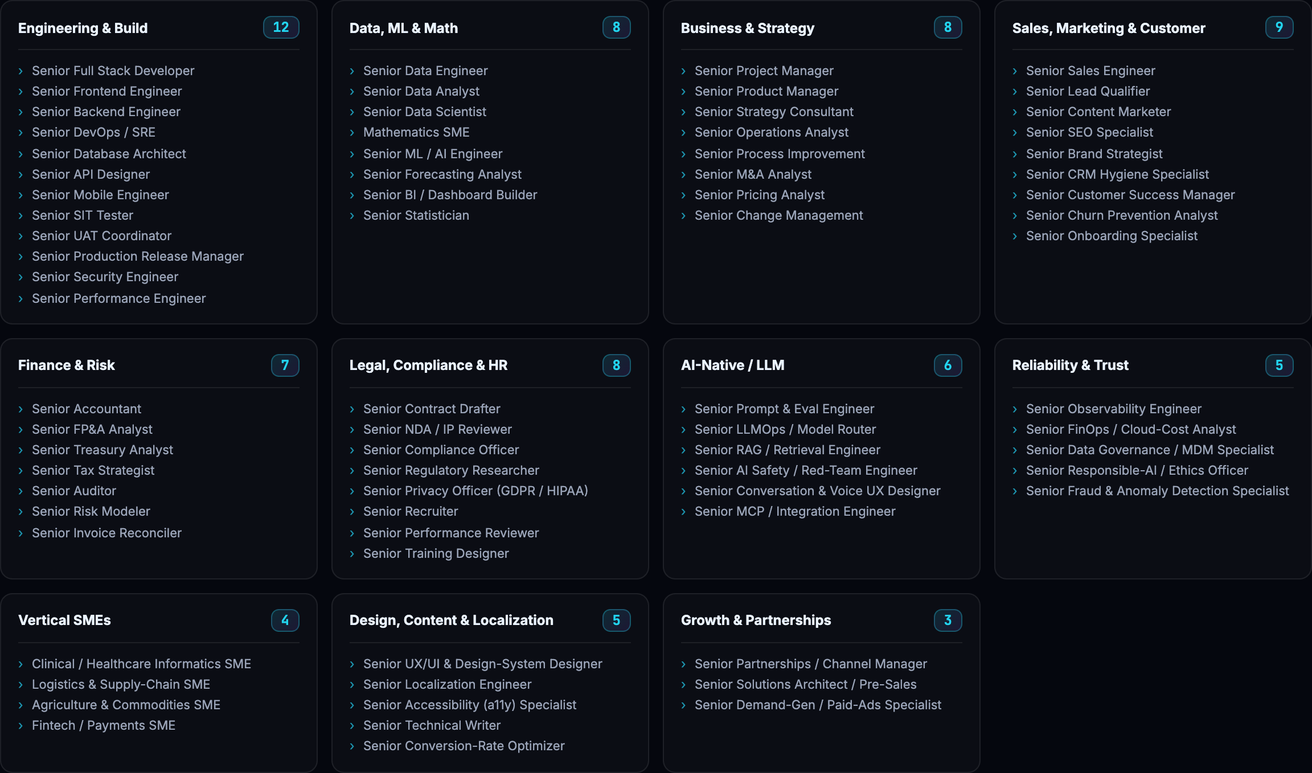
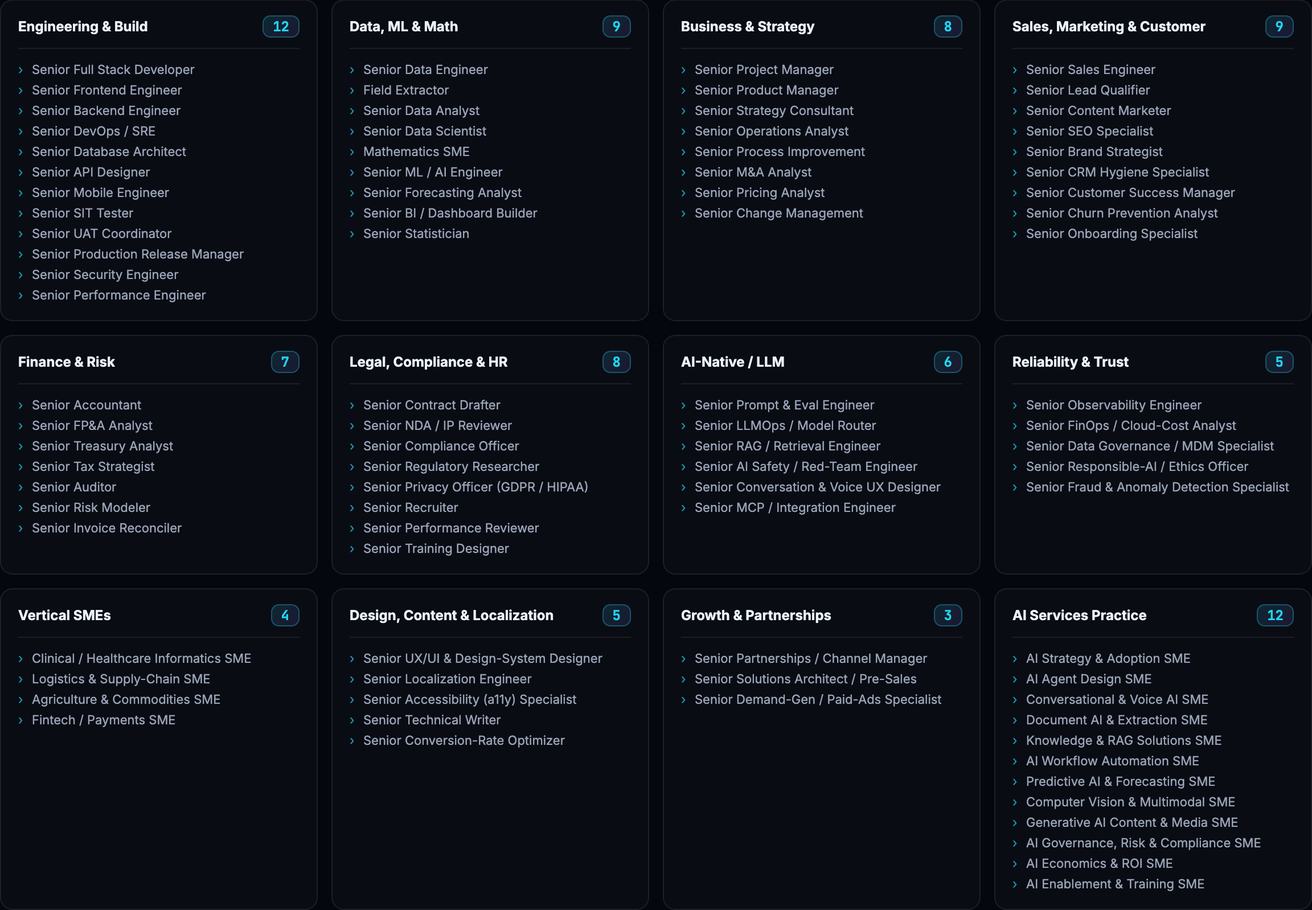
feat(neural-intelligence): digit2ai.com shows the 102-agent workforce
The landing's workforce section and animated MCP brain now show 10 core
agents (incl. AI Specialist and the AI Readiness Department), Field
Extractor, and the 12-SME AI Services Practice: 14 core + 88 specialists
= 102. Roster images re-captured from the factory page; EN/ES narration
updated (live Edge TTS, no audio to regenerate).

diff --git a/public/ringlypro-architect-factory.html b/public/ringlypro-architect-factory.html
@@ -103,7 +103,7 @@
   .pnl.mcp .t{font-size:10.5px;letter-spacing:2px;color:var(--green);opacity:.85}
   .pnl.mcp .big{font-size:18px;font-weight:800;letter-spacing:3px;color:#d6ffe8;margin:2px 0 6px}
   .pnl.mcp .st{font-size:10px;letter-spacing:1px;color:var(--green);border-top:1px solid var(--green-bd);padding-top:6px}
-  .pnl.orch .seg{display:flex;gap:4px}
+  .pnl.orch .seg{display:flex;gap:3px}
   .pnl.orch .seg i{width:6px;height:6px;border-radius:50%;background:#46618f;transition:all .3s}
   .pnl.orch .seg i.on{background:var(--cyan);box-shadow:0 0 7px var(--cyan)}
   .pnl.orch .ok{margin-left:auto;font-size:10px;letter-spacing:1px;color:var(--green);display:flex;align-items:center;gap:5px}
@@ -312,7 +312,7 @@ body.embed-stage > .viewport{display:block !important;width:100%;margin:0 !impor
 
   <div class="wrap head">
     <h1>How the Digit2AI AI Factory works</h1>
-    <p>One brain. Eight agents. Your customer's stack — wired in. This is the Champion brief: see the Neural Intelligence MCP stack run live, then try the AI Triage yourself on a real prospect problem.</p>
+    <p>One brain. Ten core agents. Your customer's stack — wired in. This is the Champion brief: see the Neural Intelligence MCP stack run live, then try the AI Triage yourself on a real prospect problem.</p>
     <span class="pill">MODEL CONTEXT PROTOCOL · DIGIT2AI NEURAL INTELLIGENCE</span>
   </div>
 
@@ -322,14 +322,16 @@ body.embed-stage > .viewport{display:block !important;width:100%;margin:0 !impor
       <div class="rings"><div class="ring r1"></div><div class="ring r2"></div><div class="ring r3"></div><div class="ring r4"></div><div class="sweep"></div></div>
 
       <svg class="links" viewBox="0 0 1200 700" preserveAspectRatio="none">
-        <path class="link" id="L0" d="M170,135 L600,340"></path>
-        <path class="link" id="L1" d="M1030,135 L600,340"></path>
-        <path class="link" id="L2" d="M95,300 L600,340"></path>
-        <path class="link" id="L3" d="M1105,300 L600,340"></path>
-        <path class="link" id="L4" d="M95,475 L600,340"></path>
-        <path class="link" id="L5" d="M1105,475 L600,340"></path>
-        <path class="link" id="L6" d="M300,605 L600,340"></path>
-        <path class="link" id="L7" d="M900,605 L600,340"></path>
+        <path class="link" id="L0" d="M260,95 L600,340"></path>
+        <path class="link" id="L1" d="M940,95 L600,340"></path>
+        <path class="link" id="L2" d="M110,225 L600,340"></path>
+        <path class="link" id="L3" d="M1090,225 L600,340"></path>
+        <path class="link" id="L4" d="M92,360 L600,340"></path>
+        <path class="link" id="L5" d="M1108,360 L600,340"></path>
+        <path class="link" id="L6" d="M110,495 L600,340"></path>
+        <path class="link" id="L7" d="M1090,495 L600,340"></path>
+        <path class="link" id="L8" d="M280,612 L600,340"></path>
+        <path class="link" id="L9" d="M920,612 L600,340"></path>
         <circle class="pkt" r="3"><animateMotion dur="2s" repeatCount="indefinite"><mpath href="#L0"/></animateMotion></circle>
         <circle class="pkt" r="3"><animateMotion dur="2s" begin="0.4s" repeatCount="indefinite"><mpath href="#L1"/></animateMotion></circle>
         <circle class="pkt" r="3"><animateMotion dur="2s" begin="0.8s" repeatCount="indefinite"><mpath href="#L2"/></animateMotion></circle>
@@ -338,32 +340,36 @@ body.embed-stage > .viewport{display:block !important;width:100%;margin:0 !impor
         <circle class="pkt" r="3"><animateMotion dur="2s" begin="1.0s" repeatCount="indefinite"><mpath href="#L5"/></animateMotion></circle>
         <circle class="pkt" r="3"><animateMotion dur="2s" begin="0.3s" repeatCount="indefinite"><mpath href="#L6"/></animateMotion></circle>
         <circle class="pkt" r="3"><animateMotion dur="2s" begin="1.4s" repeatCount="indefinite"><mpath href="#L7"/></animateMotion></circle>
+        <circle class="pkt" r="3"><animateMotion dur="2s" begin="0.9s" repeatCount="indefinite"><mpath href="#L8"/></animateMotion></circle>
+        <circle class="pkt" r="3"><animateMotion dur="2s" begin="0.5s" repeatCount="indefinite"><mpath href="#L9"/></animateMotion></circle>
       </svg>
 
-      <div class="node" id="n0" style="left:170px;top:135px"><div class="box"><div class="screen"><i></i><span class="bar"></span><i></i></div></div><div class="name">SENIOR BA</div><div class="cap">decks · plans · strategy</div></div>
-      <div class="node" id="n1" style="left:1030px;top:135px"><div class="box"><div class="screen"><i></i><span class="bar"></span><i></i></div></div><div class="name">RESEARCH</div><div class="cap">web search · competitive</div></div>
-      <div class="node" id="n2" style="left:95px;top:300px"><div class="box"><div class="screen"><i></i><span class="bar"></span><i></i></div></div><div class="name">OUTREACH</div><div class="cap">emails · WhatsApp · EN/ES</div></div>
-      <div class="node" id="n3" style="left:1105px;top:300px"><div class="box"><div class="screen"><i></i><span class="bar"></span><i></i></div></div><div class="name">ARCHITECT</div><div class="cap">build · UAT · ship</div></div>
-      <div class="node" id="n4" style="left:95px;top:475px"><div class="box"><div class="screen"><i></i><span class="bar"></span><i></i></div></div><div class="name">INBOX TRIAGE</div><div class="cap">score · flag · recommend</div></div>
-      <div class="node" id="n5" style="left:1105px;top:475px"><div class="box"><div class="screen"><i></i><span class="bar"></span><i></i></div></div><div class="name">MINUTES</div><div class="cap">summary · action items</div></div>
-      <div class="node" id="n6" style="left:300px;top:605px"><div class="box"><div class="screen"><i></i><span class="bar"></span><i></i></div></div><div class="name">VOICE AI</div><div class="cap">Rachel · Ana · Lina · 24/7</div></div>
-      <div class="node" id="n7" style="left:900px;top:605px"><div class="box"><div class="screen"><i></i><span class="bar"></span><i></i></div></div><div class="name">FINDINGS</div><div class="cap">risks · stalls · owners</div></div>
+      <div class="node" id="n0" style="left:260px;top:95px"><div class="box"><div class="screen"><i></i><span class="bar"></span><i></i></div></div><div class="name">SENIOR BA</div><div class="cap">decks · plans · strategy</div></div>
+      <div class="node" id="n1" style="left:940px;top:95px"><div class="box"><div class="screen"><i></i><span class="bar"></span><i></i></div></div><div class="name">RESEARCH</div><div class="cap">web search · competitive</div></div>
+      <div class="node" id="n2" style="left:110px;top:225px"><div class="box"><div class="screen"><i></i><span class="bar"></span><i></i></div></div><div class="name">OUTREACH</div><div class="cap">emails · WhatsApp · EN/ES</div></div>
+      <div class="node" id="n3" style="left:1090px;top:225px"><div class="box"><div class="screen"><i></i><span class="bar"></span><i></i></div></div><div class="name">ARCHITECT</div><div class="cap">build · UAT · ship</div></div>
+      <div class="node" id="n4" style="left:92px;top:360px"><div class="box"><div class="screen"><i></i><span class="bar"></span><i></i></div></div><div class="name">INBOX TRIAGE</div><div class="cap">score · flag · recommend</div></div>
+      <div class="node" id="n5" style="left:1108px;top:360px"><div class="box"><div class="screen"><i></i><span class="bar"></span><i></i></div></div><div class="name">MINUTES</div><div class="cap">summary · action items</div></div>
+      <div class="node" id="n6" style="left:110px;top:495px"><div class="box"><div class="screen"><i></i><span class="bar"></span><i></i></div></div><div class="name">VOICE AI</div><div class="cap">Rachel · Ana · Lina · 24/7</div></div>
+      <div class="node" id="n7" style="left:1090px;top:495px"><div class="box"><div class="screen"><i></i><span class="bar"></span><i></i></div></div><div class="name">FINDINGS</div><div class="cap">risks · stalls · owners</div></div>
+      <div class="node" id="n8" style="left:280px;top:612px"><div class="box"><div class="screen"><i></i><span class="bar"></span><i></i></div></div><div class="name">AI SPECIALIST</div><div class="cap">12 AI services · SMEs</div></div>
+      <div class="node" id="n9" style="left:920px;top:612px"><div class="box"><div class="screen"><i></i><span class="bar"></span><i></i></div></div><div class="name">AI READINESS</div><div class="cap">crew of 5 · one unit</div></div>
 
       <div class="console">
         <div class="pnl"><div class="row"><div class="dots"><i></i><i></i><i></i></div><div class="lines"><b></b><b></b><b></b></div></div><div class="lab">CORE · CONTEXT</div></div>
         <div class="pnl"><div class="row"><div class="dots"><i></i><i></i><i></i></div><div class="lines"><b></b><b></b><b></b></div></div><div class="lab">CORE · ROUTING</div></div>
-        <div class="pnl mcp"><div class="t">MCP</div><div class="big">BRAIN</div><div class="st">8 agents · linked</div></div>
-        <div class="pnl orch"><div class="row"><div class="seg" id="seg"><i></i><i></i><i></i><i></i><i></i><i></i><i></i><i></i></div><div class="ok"><b></b>LIVE</div></div><div class="lab2" id="orchLab">ORCHESTRATOR</div></div>
+        <div class="pnl mcp"><div class="t">MCP</div><div class="big">BRAIN</div><div class="st">10 core · linked</div></div>
+        <div class="pnl orch"><div class="row"><div class="seg" id="seg"><i></i><i></i><i></i><i></i><i></i><i></i><i></i><i></i><i></i><i></i></div><div class="ok"><b></b>LIVE</div></div><div class="lab2" id="orchLab">ORCHESTRATOR</div></div>
       </div>
 
       <div class="label-c">&#9660; DIGIT2AI MCP BRAIN &#9650;</div>
-      <div class="sealed"><b></b>83-AGENT WORKFORCE · WIRED VIA OPEN MCP</div>
+      <div class="sealed"><b></b>102-AGENT WORKFORCE · WIRED VIA OPEN MCP</div>
     </div>
   </div>
 
   <!-- mobile stacked version of the diagram -->
   <div class="wrap diagram-mobile">
-    <div class="dm-brain"><div class="t">DIGIT2AI MCP</div><div class="big">BRAIN</div><div class="st">8 agents · linked · LIVE</div></div>
+    <div class="dm-brain"><div class="t">DIGIT2AI MCP</div><div class="big">BRAIN</div><div class="st">10 core · linked · LIVE</div></div>
     <div class="dm-agents">
       <div class="dm-a"><div class="nm">SENIOR BA</div><div class="cp">decks · plans · strategy</div></div>
       <div class="dm-a"><div class="nm">RESEARCH</div><div class="cp">web search · competitive</div></div>
@@ -373,10 +379,12 @@ body.embed-stage > .viewport{display:block !important;width:100%;margin:0 !impor
       <div class="dm-a"><div class="nm">MINUTES</div><div class="cp">summary · action items</div></div>
       <div class="dm-a"><div class="nm">VOICE AI</div><div class="cp">Rachel · Ana · Lina · 24/7</div></div>
       <div class="dm-a"><div class="nm">FINDINGS</div><div class="cp">risks · stalls · owners</div></div>
+      <div class="dm-a"><div class="nm">AI SPECIALIST</div><div class="cp">12 AI services · SMEs</div></div>
+      <div class="dm-a"><div class="nm">AI READINESS</div><div class="cp">crew of 5 · one unit</div></div>
     </div>
   </div>
 
-  <p class="wrap muted" style="margin-top:12px">MCP CORE — context, routing, orchestrator · 8 specialized agents, each wired to the customer's actual systems via the open Model Context Protocol. Behind them: 75 senior specialists the brain spins up on demand.</p>
+  <p class="wrap muted" style="margin-top:12px">MCP CORE — context, routing, orchestrator · 10 core agents (including the AI Specialist and the 5-agent AI Readiness Department), each wired to the customer's actual systems via the open Model Context Protocol. Behind them: 76 senior specialists and 12 AI Services SMEs the brain spins up on demand.</p>
 
   <!-- RACHEL VOICE ORB (zero-key Edge neural TTS via /api/tts/edge) -->
   <div class="wrap">
@@ -466,7 +474,7 @@ body.embed-stage > .viewport{display:block !important;width:100%;margin:0 !impor
   <div class="wrap">
     <h2 class="sec"><span class="n">02</span> WHAT MCP NEURAL AI ACTUALLY MEANS</h2>
     <p class="lead">It's a coordinated team of AI agents — <b>not one chatbot.</b></p>
-    <p class="muted" style="margin-bottom:14px">"MCP" = Model Context Protocol — how our specialists share context and hand work between each other. Each agent's output is the next agent's input, so the customer gets usable work product, not a vague summary. These eight are the always-on core; 75 more specialists spin up on demand.</p>
+    <p class="muted" style="margin-bottom:14px">"MCP" = Model Context Protocol — how our specialists share context and hand work between each other. Each agent's output is the next agent's input, so the customer gets usable work product, not a vague summary. These ten are the always-on core; 76 senior specialists and 12 AI Services SMEs spin up on demand.</p>
     <div class="grid4">
       <div class="card"><div class="k">01</div><div class="h">Senior Business Analyst</div><p>Drafts decks, business plans, market research, strategy memos.</p></div>
       <div class="card"><div class="k">02</div><div class="h">Research Brief</div><p>Web search + synthesis. Competitive scans, regulatory checks, partner shortlists.</p></div>
@@ -476,21 +484,23 @@ body.embed-stage > .viewport{display:block !important;width:100%;margin:0 !impor
       <div class="card"><div class="k">06</div><div class="h">Meeting Minutes</div><p>Turns raw call notes into summary + action items auto-assigned to owners.</p></div>
       <div class="card"><div class="k">07</div><div class="h">Voice AI Agents</div><p>Rachel (EN), Ana &amp; Lina (ES) answer phones 24/7 — qualify, book, log to CRM.</p></div>
       <div class="card"><div class="k">08</div><div class="h">Neural Findings</div><p>Watches every project for stalls, missing owners, overdue milestones — pings before things slip.</p></div>
+      <div class="card"><div class="k">09</div><div class="h">AI Specialist</div><p>Owns every AI service request end to end — diagnoses the need and leads 12 AI Services SMEs.</p></div>
+      <div class="card"><div class="k">10</div><div class="h">AI Readiness Department</div><p>A crew of 5 that takes a CEO from fear to confidence — scorecard, roadmap, safe next step.</p></div>
     </div>
-    <p class="muted" style="margin-top:12px">8 core + 75 specialists = <b style="color:var(--cyan)">83-agent workforce</b>, routed by one MCP brain, wired to the customer's live systems. New specialists added every quarter — every customer gets them automatically.</p>
+    <p class="muted" style="margin-top:12px">14 core agents (10 seats; the AI Readiness Department counts five) + 88 specialists and AI SMEs = <b style="color:var(--cyan)">102-agent workforce</b>, routed by one MCP brain, wired to the customer's live systems. New specialists added every quarter — every customer gets them automatically.</p>
   </div>
 
   <!-- ===== the full army ===== -->
   <div class="wrap">
-    <h2 class="sec"><span class="n">02 ·</span> THE FULL ARMY — 70+ SPECIALIST AGENTS ON CALL</h2>
-    <p class="muted" style="margin-bottom:16px">The 8 core agents above are the always-on stack. Behind them sits a roster of specialists the MCP brain spins up the moment a project needs them. No new contracts. No "let me find a partner who does that." Every customer gets the whole army from day one.</p>
+    <h2 class="sec"><span class="n">02 ·</span> THE FULL ARMY — 88 SPECIALISTS AND AI SMEs ON CALL</h2>
+    <p class="muted" style="margin-bottom:16px">The 10 core agents above are the always-on stack. Behind them sits a roster of specialists the MCP brain spins up the moment a project needs them. No new contracts. No "let me find a partner who does that." Every customer gets the whole army from day one.</p>
     <div class="army">
 
       <div class="acat"><div class="ct"><span class="nm">Engineering &amp; Build</span><span class="cn">12</span></div>
         <ul><li>Senior Full Stack Developer</li><li>Senior Frontend Engineer</li><li>Senior Backend Engineer</li><li>Senior DevOps / SRE</li><li>Senior Database Architect</li><li>Senior API Designer</li><li>Senior Mobile Engineer</li><li>Senior SIT Tester</li><li>Senior UAT Coordinator</li><li>Senior Production Release Manager</li><li>Senior Security Engineer</li><li>Senior Performance Engineer</li></ul></div>
 
-      <div class="acat"><div class="ct"><span class="nm">Data, ML &amp; Math</span><span class="cn">8</span></div>
-        <ul><li>Senior Data Engineer</li><li>Senior Data Analyst</li><li>Senior Data Scientist</li><li>Mathematics SME</li><li>Senior ML / AI Engineer</li><li>Senior Forecasting Analyst</li><li>Senior BI / Dashboard Builder</li><li>Senior Statistician</li></ul></div>
+      <div class="acat"><div class="ct"><span class="nm">Data, ML &amp; Math</span><span class="cn">9</span></div>
+        <ul><li>Senior Data Engineer</li><li>Field Extractor</li><li>Senior Data Analyst</li><li>Senior Data Scientist</li><li>Mathematics SME</li><li>Senior ML / AI Engineer</li><li>Senior Forecasting Analyst</li><li>Senior BI / Dashboard Builder</li><li>Senior Statistician</li></ul></div>
 
       <div class="acat"><div class="ct"><span class="nm">Business &amp; Strategy</span><span class="cn">8</span></div>
         <ul><li>Senior Project Manager</li><li>Senior Product Manager</li><li>Senior Strategy Consultant</li><li>Senior Operations Analyst</li><li>Senior Process Improvement</li><li>Senior M&amp;A Analyst</li><li>Senior Pricing Analyst</li><li>Senior Change Management</li></ul></div>
@@ -519,8 +529,11 @@ body.embed-stage > .viewport{display:block !important;width:100%;margin:0 !impor
       <div class="acat"><div class="ct"><span class="nm">Growth &amp; Partnerships</span><span class="cn">3</span></div>
         <ul><li>Senior Partnerships / Channel Manager</li><li>Senior Solutions Architect / Pre-Sales</li><li>Senior Demand-Gen / Paid-Ads Specialist</li></ul></div>
 
+      <div class="acat aisvc"><div class="ct"><span class="nm">AI Services Practice</span><span class="cn">12</span></div>
+        <ul><li>AI Strategy &amp; Adoption SME</li><li>AI Agent Design SME</li><li>Conversational &amp; Voice AI SME</li><li>Document AI &amp; Extraction SME</li><li>Knowledge &amp; RAG Solutions SME</li><li>AI Workflow Automation SME</li><li>Predictive AI &amp; Forecasting SME</li><li>Computer Vision &amp; Multimodal SME</li><li>Generative AI Content &amp; Media SME</li><li>AI Governance, Risk &amp; Compliance SME</li><li>AI Economics &amp; ROI SME</li><li>AI Enablement &amp; Training SME</li></ul></div>
+
     </div>
-    <p class="muted" style="margin-top:14px">8 core + 75 specialists = <b style="color:var(--cyan)">83-agent workforce</b> · routed by one MCP brain · wired to the customer's live systems via the open Model Context Protocol · new specialists added every quarter, every customer gets them automatically.</p>
+    <p class="muted" style="margin-top:14px">14 core agents + 76 specialists + 12 AI Services SMEs = <b style="color:var(--cyan)">102-agent workforce</b> · routed by one MCP brain · wired to the customer's live systems via the open Model Context Protocol · new specialists added every quarter, every customer gets them automatically.</p>
   </div>
 
   <!-- ===== the 4 deliverables ===== -->
@@ -579,7 +592,7 @@ body.embed-stage > .viewport{display:block !important;width:100%;margin:0 !impor
     </div>
   </div>
 
-  <div class="foot">Partnership-only brief. Digit2AI · Neural Intelligence · digit2ai.com — one brain, eight always-on agents, 75 specialists on call, wired to the customer's live systems through the open Model Context Protocol. The AI never auto-commits Digit2AI to a project; every triage is a first read a human reviews within 48 hours.</div>
+  <div class="foot">Partnership-only brief. Digit2AI · Neural Intelligence · digit2ai.com — one brain, ten always-on core agents, 88 specialists and AI SMEs on call, wired to the customer's live systems through the open Model Context Protocol. The AI never auto-commits Digit2AI to a project; every triage is a first read a human reviews within 48 hours.</div>
 
 <script>
   // auto-scale the diagram
@@ -599,12 +612,13 @@ body.embed-stage > .viewport{display:block !important;width:100%;margin:0 !impor
     {id:'n0',link:'L0',name:'SENIOR BA'},{id:'n1',link:'L1',name:'RESEARCH'},
     {id:'n2',link:'L2',name:'OUTREACH'},{id:'n3',link:'L3',name:'ARCHITECT'},
     {id:'n4',link:'L4',name:'INBOX TRIAGE'},{id:'n5',link:'L5',name:'MINUTES'},
-    {id:'n6',link:'L6',name:'VOICE AI'},{id:'n7',link:'L7',name:'FINDINGS'}];
+    {id:'n6',link:'L6',name:'VOICE AI'},{id:'n7',link:'L7',name:'FINDINGS'},
+    {id:'n8',link:'L8',name:'AI SPECIALIST'},{id:'n9',link:'L9',name:'AI READINESS'}];
   var seg=document.getElementById('seg').children,orchLab=document.getElementById('orchLab'),ai=-1;
   function tick(){agents.forEach(function(a){document.getElementById(a.id).classList.remove('active');document.getElementById(a.link).classList.remove('hot');});
     ai=(ai+1)%agents.length;if(ai===0)for(var k=0;k<seg.length;k++)seg[k].classList.remove('on');
     var a=agents[ai];document.getElementById(a.id).classList.add('active');document.getElementById(a.link).classList.add('hot');
-    seg[ai].classList.add('on');orchLab.textContent='ORCHESTRATOR · '+a.name+'  ['+(ai+1)+'/8]';}
+    seg[ai].classList.add('on');orchLab.textContent='ORCHESTRATOR · '+a.name+'  ['+(ai+1)+'/'+agents.length+']';}
   tick();setInterval(tick,1700);
 
   // ===== live triage (real endpoint) =====
@@ -668,8 +682,8 @@ body.embed-stage > .viewport{display:block !important;width:100%;margin:0 !impor
     "Hi, I'm Rachel, the AI voice of Digit2AI. Let me walk you through how our AI Factory works — from a prospect's problem to live software, in days, not months.",
     "Right here you can try the live AI Triage. Paste a prospect's problem in their own words, and our Neural Intelligence stack reads it, scores the fit, sketches the technical solution, and shows you exactly what we would build — before any human is involved.",
     "Here is why this is the game-changer. Most AI is a thermometer — it shows you a number and walks away. Digit2AI is the doctor. It finds the money leak, diagnoses the root cause with evidence, and ships the fix. Detect, diagnose, treat.",
-    "Under the hood it is not one chatbot. It is a coordinated team of agents sharing context through the open Model Context Protocol. Eight specialists are always on — a business analyst, research, outreach, the architect that builds, inbox triage, meeting minutes, the voice agents, and neural findings.",
-    "Behind those eight sits a roster of seventy-five senior specialists the brain spins up the moment a project needs them — engineering, data, finance, legal, design, and vertical experts. Eight core plus seventy-five equals an eighty-three agent workforce, and every customer gets the whole army from day one.",
+    "Under the hood it is not one chatbot. It is a coordinated team of agents sharing context through the open Model Context Protocol. Ten core agents are always on — a business analyst, research, outreach, the architect that builds, inbox triage, meeting minutes, the voice agents, neural findings, the AI specialist, and the AI readiness department.",
+    "Behind that core sits a roster of seventy-six senior specialists and twelve AI services experts the brain spins up the moment a project needs them — engineering, data, finance, legal, design, vertical experts, and AI services. Altogether, a one hundred and two agent workforce, and every customer gets the whole army from day one.",
     "There are four things we deliver. Custom software built and shipped to your own domain. A senior business analyst on tap for decks and plans. Twenty-two ready-built vertical platforms. And voice agents that answer your phones around the clock.",
     "Becoming a customer is simple. You submit the problem, the AI triages it in minutes, a real person reviews within forty-eight hours, we auto-schedule a kickoff, and then we build, test, and ship live software on your domain.",
     "Twenty-one live platforms, twenty-two verticals, ninety-nine point nine percent uptime, across the Americas in English and Spanish. When you are ready, send your prospect to digit2ai dot com — three minutes of their time, and a real recommendation within forty-eight hours."

diff --git a/public/neural-intelligence.html b/public/neural-intelligence.html
@@ -633,21 +633,21 @@ html.lang-es .i18.es{display:inline}
     </div>
   </section>
 
-  <!-- ============ SLIDE 3 — THE 8 CORE AGENTS ============ -->
+  <!-- ============ SLIDE 3 — THE 10 CORE AGENTS ============ -->
   <section class="slide" id="s-core-agents" aria-label="Slide 3 of 14">
     <div class="slide__inner" style="max-width:1280px;text-align:center">
       <span class="kicker reveal"><span class="i18 en">What MCP Neural AI actually means</span><span class="i18 es">Qu&eacute; significa realmente MCP Neural AI</span></span>
       <h2 class="title reveal" style="margin-bottom:18px"><span class="i18 en">A coordinated team of AI agents &mdash; not one chatbot.</span><span class="i18 es">Un equipo coordinado de agentes de IA &mdash; no un solo chatbot.</span></h2>
-      <img src="/img/factory-core-agents.png" alt="The 8 always-on core agents: Senior Business Analyst, Research Brief, Outreach Drafter, Architect and Builder, Inbox Triage, Meeting Minutes, Voice AI Agents, Neural Findings" loading="lazy" class="reveal" style="width:100%;max-width:1180px;border:1px solid var(--line);border-radius:16px;box-shadow:0 26px 80px rgba(0,0,0,.5);display:block;margin:0 auto" />
+      <img src="/img/factory-core-agents.png" alt="The 10 always-on core agents: Senior Business Analyst, Research Brief, Outreach Drafter, Architect and Builder, Inbox Triage, Meeting Minutes, Voice AI Agents, Neural Findings, AI Specialist, AI Readiness Department" loading="lazy" class="reveal" style="width:100%;max-width:1180px;border:1px solid var(--line);border-radius:16px;box-shadow:0 26px 80px rgba(0,0,0,.5);display:block;margin:0 auto" />
     </div>
   </section>
 
   <!-- ============ SLIDE 4 — THE FULL ARMY ============ -->
   <section class="slide" id="s-full-army" aria-label="Slide 4 of 14">
     <div class="slide__inner" style="max-width:1340px;text-align:center">
-      <span class="kicker reveal"><span class="i18 en">The full army &mdash; 70+ specialist agents on call</span><span class="i18 es">El ej&eacute;rcito completo &mdash; m&aacute;s de 70 agentes especialistas disponibles</span></span>
-      <h2 class="title reveal" style="margin-bottom:18px"><span class="i18 en">8 core + 75 specialists = an 83-agent workforce.</span><span class="i18 es">8 centrales + 75 especialistas = una fuerza de 83 agentes.</span></h2>
-      <img src="/img/factory-full-army.png" alt="Full specialist roster across Engineering and Build, Data ML and Math, Business and Strategy, Sales Marketing and Customer, Finance and Risk, Legal Compliance and HR, AI-Native LLM, Reliability and Trust, Vertical SMEs, Design Content and Localization, and Growth and Partnerships" loading="lazy" class="reveal" style="width:100%;max-width:1280px;border:1px solid var(--line);border-radius:16px;box-shadow:0 26px 80px rgba(0,0,0,.5);display:block;margin:0 auto" />
+      <span class="kicker reveal"><span class="i18 en">The full army &mdash; 88 specialists and AI SMEs on call</span><span class="i18 es">El ej&eacute;rcito completo &mdash; 88 especialistas y expertos en IA disponibles</span></span>
+      <h2 class="title reveal" style="margin-bottom:18px"><span class="i18 en">14 core + 88 specialists = a 102-agent workforce.</span><span class="i18 es">14 centrales + 88 especialistas = una fuerza de 102 agentes.</span></h2>
+      <img src="/img/factory-full-army.png" alt="Full specialist roster across Engineering and Build, Data ML and Math, Business and Strategy, Sales Marketing and Customer, Finance and Risk, Legal Compliance and HR, AI-Native LLM, Reliability and Trust, Vertical SMEs, Design Content and Localization, and Growth and Partnerships, and the 12-SME AI Services Practice" loading="lazy" class="reveal" style="width:100%;max-width:1280px;border:1px solid var(--line);border-radius:16px;box-shadow:0 26px 80px rgba(0,0,0,.5);display:block;margin:0 auto" />
     </div>
   </section>
 
@@ -1114,8 +1114,8 @@ html.lang-es .i18.es{display:inline}
       "Hi, I'm the DIGIT2AI voice of artificial intelligence. In the next few minutes I'll walk you through Neural Intelligence, our AI-native operating model. Let me take you slide by slide.",
       "DIGIT2AI Neural Intelligence is the AI-native operating model: one hundred fifty specialized AI agents, one backbone, and thirty to fifty percent lower operating costs, in weeks, not years.",
       "Here's the backbone the whole model runs on. One MCP brain at the center, wired to every specialized agent, and the open Model Context Protocol carries shared context between them and orchestrates multi-step work in real time. Context goes in; coordinated action comes out. This is what turns a hundred and fifty separate agents into one operating system.",
-      "Under the hood it is not one chatbot. It is a coordinated team of agents sharing context through the open Model Context Protocol. Eight specialists are always on: a business analyst, research, outreach, the architect that builds, inbox triage, meeting minutes, the voice agents, and neural findings. Each agent's output is the next agent's input, so you get usable work product, not a vague summary.",
-      "Behind those eight sits a roster of seventy-five senior specialists the brain spins up the moment a project needs them, across engineering, data, finance, legal, design, and vertical expertise. Eight core plus seventy-five equals an eighty-three agent workforce, and every customer gets the whole army from day one, with new specialists added every quarter.",
+      "Under the hood it is not one chatbot. It is a coordinated team of agents sharing context through the open Model Context Protocol. Ten core agents are always on: a business analyst, research, outreach, the architect that builds, inbox triage, meeting minutes, the voice agents, neural findings, the AI specialist, and the AI readiness department, a crew of five. Each agent's output is the next agent's input, so you get usable work product, not a vague summary.",
+      "Behind that core sits a roster of seventy-six senior specialists and twelve AI services experts the brain spins up the moment a project needs them, across engineering, data, finance, legal, design, vertical expertise, and AI services. Fourteen core agents plus eighty-eight specialists equals a one hundred and two agent workforce, and every customer gets the whole army from day one, with new specialists added every quarter.",
       "Here's the paradox of twenty twenty-six. Everyone adopted AI, but almost no one is winning with it. Eighty-eight percent of organizations now use AI in at least one function, yet only about seven percent have scaled it across the enterprise, and only about six percent capture real company-wide value. Eighty to ninety-five percent of enterprise AI projects fail to deliver the return they promised. The problem is not the AI; it's what the AI is plugged into.",
       "Roughly nine out of ten enterprises still run on a pre-AI operating model. They bolt AI tools onto siloed departments, legacy systems that don't talk to each other, headcount-based cost structures, and decisions that wait for meetings. AI on top of a traditional operating model produces expensive pilots, not transformation. Gartner expects sixty percent of AI projects without AI-ready architecture to be abandoned through twenty twenty-six.",
       "The window is twenty twenty-six to twenty twenty-seven. AI budgets are rising at eighty-six percent of enterprises, agentic AI is moving from experiment to production across every industry, and organizations that redesign work around AI are twice as likely to exceed their revenue goals. The gap between AI-native operators and traditional operators widens every quarter, and it will not close later at the same price.",
@@ -1131,8 +1131,8 @@ html.lang-es .i18.es{display:inline}
       "Hola, soy la voz de inteligencia artificial de DIGIT2AI. En los próximos minutos te voy a explicar Neural Intelligence, nuestro modelo operativo nativo de inteligencia artificial. Déjame llevarte lámina por lámina.",
       "DIGIT2AI Neural Intelligence es el modelo operativo nativo de inteligencia artificial: ciento cincuenta agentes de inteligencia artificial especializados, una sola columna vertebral, y entre treinta y cincuenta por ciento menos de costos operativos, en semanas, no en años.",
       "Esta es la columna vertebral sobre la que corre todo el modelo. Un cerebro MCP en el centro, conectado a cada agente especializado, y el Model Context Protocol abierto lleva el contexto compartido entre ellos y orquesta el trabajo de varios pasos en tiempo real. Entra contexto; sale acción coordinada. Esto es lo que convierte a ciento cincuenta agentes separados en un solo sistema operativo.",
-      "Por dentro no es un solo chatbot. Es un equipo coordinado de agentes que comparten contexto a través del Model Context Protocol abierto. Ocho especialistas están siempre activos: un analista de negocio, investigación, alcance, el arquitecto que construye, el triaje de bandeja, las minutas de reunión, los agentes de voz y los hallazgos neurales. La salida de cada agente es la entrada del siguiente, así que recibes trabajo aprovechable, no un resumen vago.",
-      "Detrás de esos ocho hay una nómina de setenta y cinco especialistas senior que el cerebro activa en el momento en que un proyecto los necesita, en ingeniería, datos, finanzas, legal, diseño y experiencia vertical. Ocho centrales más setenta y cinco equivalen a una fuerza de ochenta y tres agentes, y cada cliente recibe el ejército completo desde el primer día, con nuevos especialistas cada trimestre.",
+      "Por dentro no es un solo chatbot. Es un equipo coordinado de agentes que comparten contexto a través del Model Context Protocol abierto. Diez agentes centrales están siempre activos: un analista de negocio, investigación, alcance, el arquitecto que construye, el triaje de bandeja, las minutas de reunión, los agentes de voz, los hallazgos neurales, el especialista en inteligencia artificial y el departamento de preparación para la inteligencia artificial, un equipo de cinco. La salida de cada agente es la entrada del siguiente, así que recibes trabajo aprovechable, no un resumen vago.",
+      "Detrás de ese núcleo hay una nómina de setenta y seis especialistas senior y doce expertos en servicios de inteligencia artificial que el cerebro activa en el momento en que un proyecto los necesita, en ingeniería, datos, finanzas, legal, diseño, experiencia vertical y servicios de inteligencia artificial. Catorce agentes centrales más ochenta y ocho especialistas equivalen a una fuerza de ciento dos agentes, y cada cliente recibe el ejército completo desde el primer día, con nuevos especialistas cada trimestre.",
       "Esta es la paradoja de dos mil veintiséis. Todos adoptaron la inteligencia artificial, pero casi nadie está ganando con ella. El ochenta y ocho por ciento de las organizaciones ya usa inteligencia artificial en al menos una función, pero solo cerca del siete por ciento la ha escalado en toda la empresa, y apenas alrededor del seis por ciento captura un valor real en toda la compañía. Entre el ochenta y el noventa y cinco por ciento de los proyectos de inteligencia artificial empresarial no entregan el retorno prometido. El problema no es la inteligencia artificial: es a qué está conectada.",
       "Aproximadamente nueve de cada diez empresas todavía funcionan con un modelo operativo anterior a la inteligencia artificial. Le conectan herramientas de inteligencia artificial a departamentos aislados, a sistemas heredados que no se comunican entre sí, a estructuras de costos basadas en personal, y a decisiones que esperan reuniones. La inteligencia artificial sobre un modelo operativo tradicional produce pilotos costosos, no transformación. Gartner espera que el sesenta por ciento de los proyectos de inteligencia artificial sin una arquitectura preparada sean abandonados hasta dos mil veintiséis.",
       "La ventana es dos mil veintiséis a dos mil veintisiete. Los presupuestos de inteligencia artificial están creciendo en el ochenta y seis por ciento de las empresas, la inteligencia artificial con agentes está pasando del experimento a la producción en cada industria, y las organizaciones que rediseñan el trabajo en torno a la inteligencia artificial tienen el doble de probabilidad de superar sus metas de ingresos. La brecha entre los operadores nativos de inteligencia artificial y los tradicionales se amplía cada trimestre, y no se cerrará después al mismo precio.",
